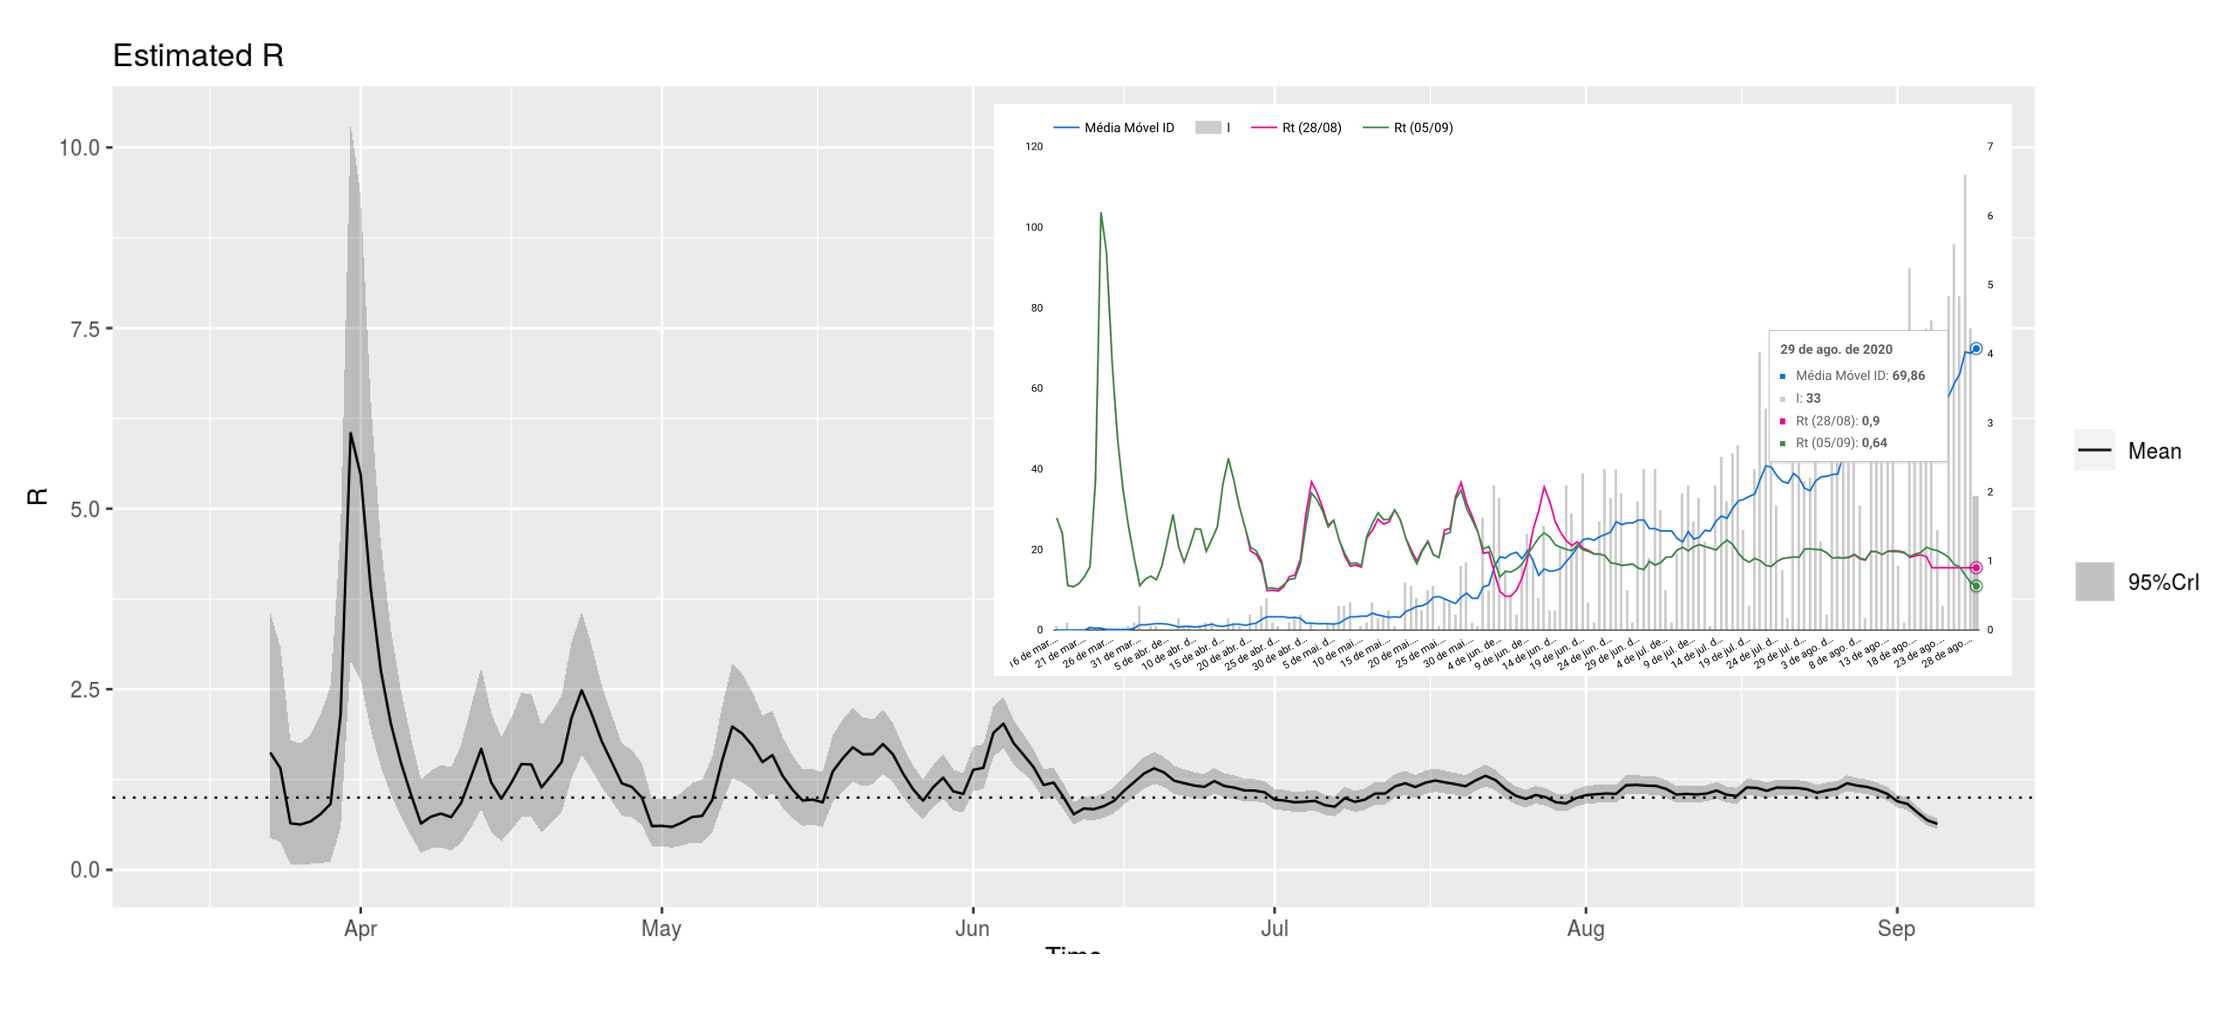
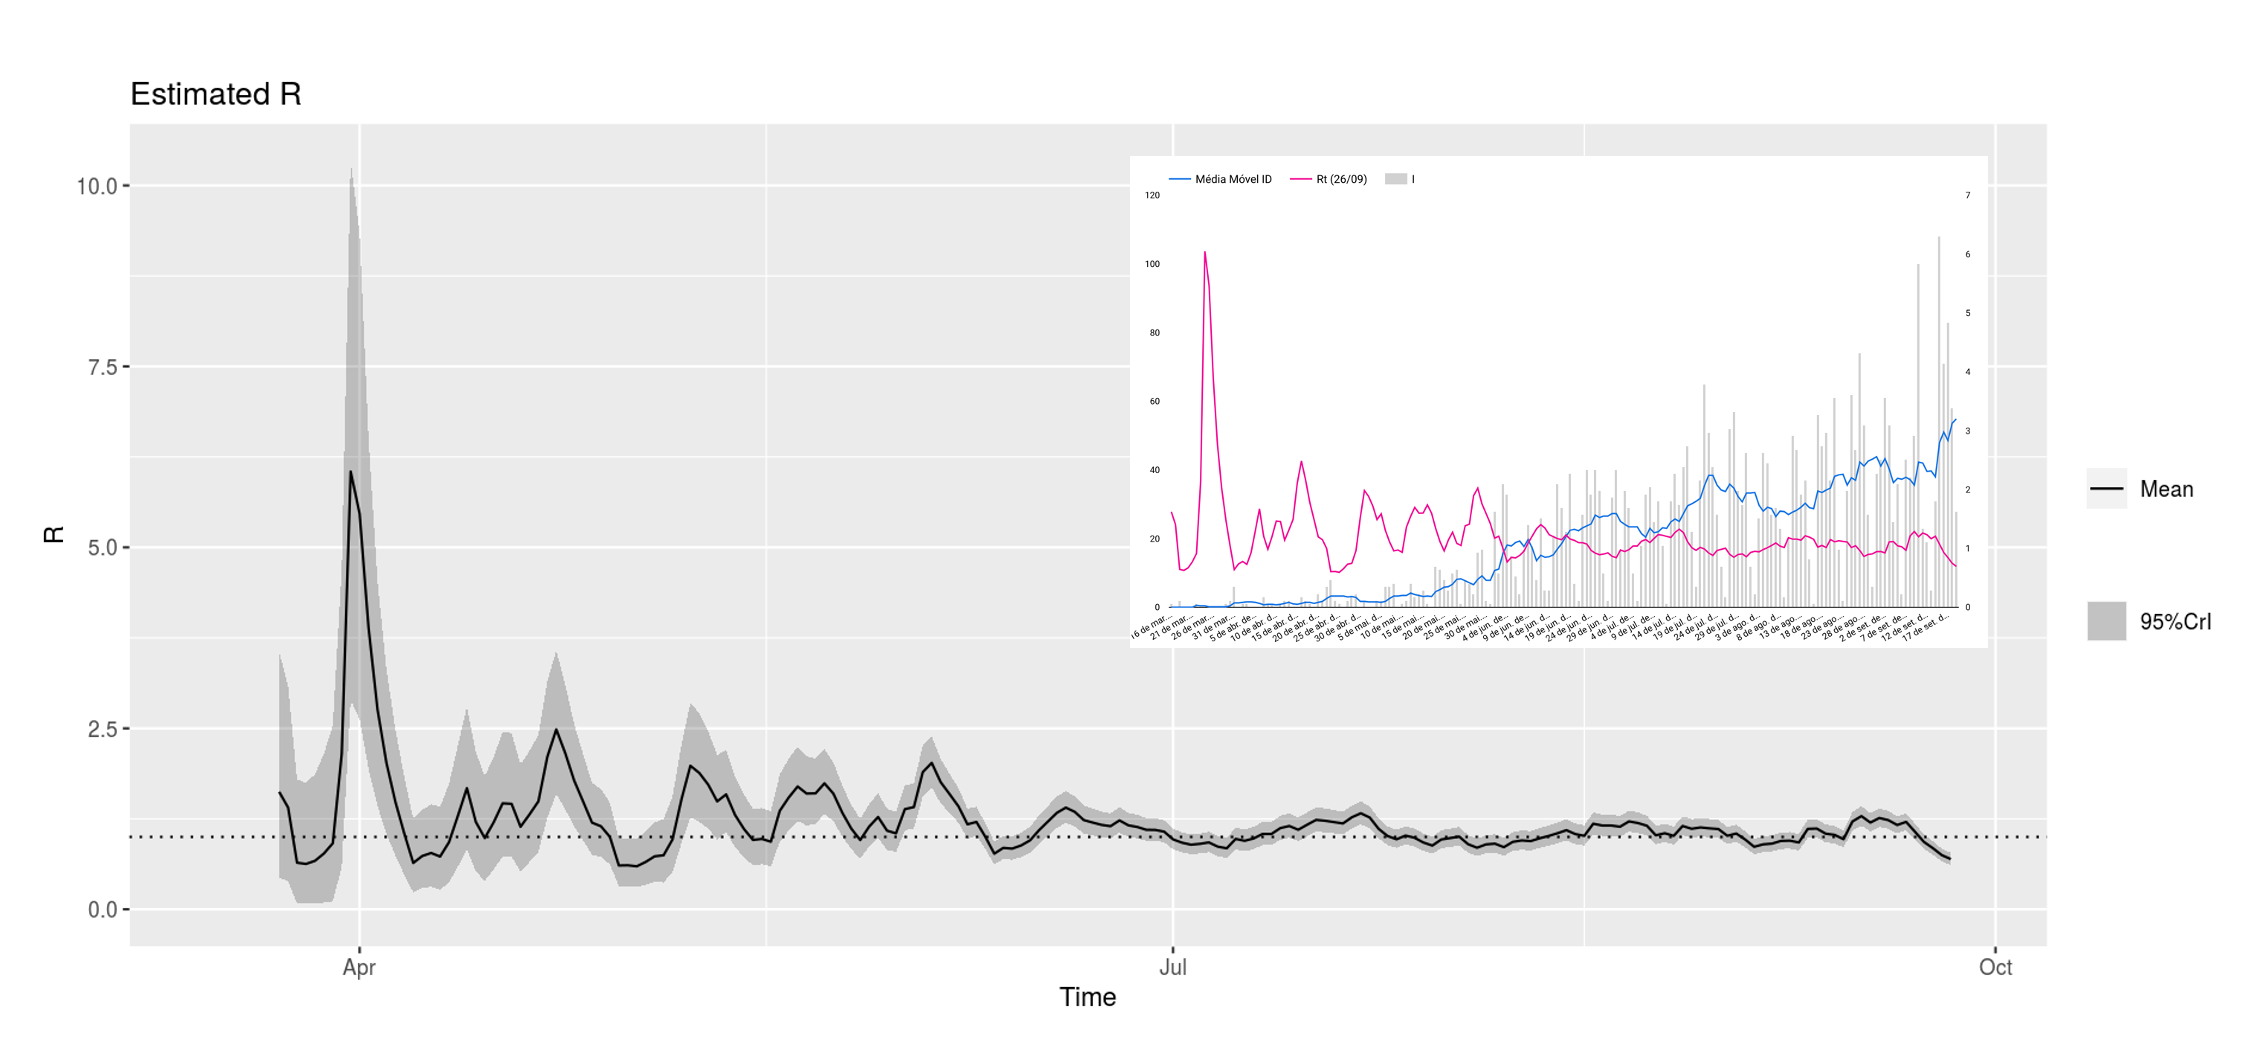
atualizacao

diff --git a/index.html b/index.html
@@ -135,7 +135,7 @@
               <!-- CARD.TITLE.TEXT -->
               <h2 class="display">Casos de Uberaba</h2>
             <!--/a-->
-            <p class="card-text">Dados e projeções para o município de Uberaba, informações até o dia 26 de setembro de 2020. Informações coletadas com a própria Secretaria Municipal de Saúde de Uberaba.</p>
+            <p class="card-text">Dados e projeções para o município de Uberaba, informações até o dia 10 de outubro de 2020. Informações coletadas com a própria Secretaria Municipal de Saúde de Uberaba.</p>
             <!-- CARD.TITLE.DESCRIPTION -->
           </div>
         </div>
@@ -147,8 +147,8 @@
 
         <p class="text-justify mt-3">
             <ul>
-            <li>No dia de hoje (26/09/2020), acumulamos 5429 casos notificados.</li>
-            <li>Projeção para dia 01 de setembro é de 5806 podendo chegar até 6176 casos notificados, como indicado pela faixa cinza.</li>
+            <li>No dia de hoje (10/10/2020), acumulamos 6716 casos notificados.</li>
+            <li>Projeção para dia 15 de outubro é de 7032 podendo chegar até 7433 casos notificados, como indicado pela faixa cinza.</li>
             <li>Pontos pretos: número de casos confirmados a cada dia.</li>
             <li>Pontos laranjas: a previsão para os próximos 5 dias.</li>
             </ul>
@@ -176,7 +176,7 @@
         </div>
 
         <p class="text-justify mt-3">
-        Todos os dados foram obtidos da própria Secretária Municipal de Saúde de Uberaba até o dia 26 de setembro de 2020.
+        Todos os dados foram obtidos da própria Secretária Municipal de Saúde de Uberaba até o dia 10 de outubro de 2020.
         </p>
 
 <!--        <a href="https://datastudio.google.com/reporting/1CX1pHjDrbb7X1gEIeVY1sxQp8PziWgpN/page/g6OUB?s=hWFHXQaeMZY" target="_blank">
@@ -193,7 +193,7 @@
         <p class="text-justify mt-3"> Figura 2: Indicadores dos casos de Covid-19 em Uberaba. Clique na imagem para ver o gráfico interativo </p>
 
         <p class="text-justify mt-3">
-        Os gráficos da Figura 2 apresentam um panorama geral da evolução da covid-19 na cidade de Uberaba. No dia 26/09/2020 a cidade apresenta 5429 casos notificados confirmados dos quais 90% são considerados recuperados.
+        Os gráficos da Figura 2 apresentam um panorama geral da evolução da covid-19 na cidade de Uberaba. No dia 10/10/2020 a cidade apresenta 6716 casos notificados confirmados dos quais 90% são considerados recuperados.
         </p>
 
         <div class="media-body">
@@ -208,7 +208,7 @@
         </p>
 
         <p class="text-justify mt-3">
-        A Figura 3, apresenta a média móvel dos casos confirmados considerando um intervalo de sete dias. A média móvel dos casos confirmados em Uberaba no dia 26/09 é de 5231.
+        A Figura 3, apresenta a média móvel dos casos confirmados considerando um intervalo de sete dias. A média móvel dos casos confirmados em Uberaba no dia 10/10 é de 6521.
         </p>
 
         <a href="https://datastudio.google.com/reporting/1eNQdQv-rpu3yne8bvqD71-j8gS44fYts/page/sLUUB?s=sfL5MYwUyi4" target="_blank">
@@ -222,7 +222,7 @@
         </p>
 
         <p class="text-justify mt-3">
-       A Figura 4 apresenta a curva de casos ativos ao longo do tempo junto com a média móvel considerando intervalos de sete dias. A média móvel de casos ativos da covid-19 no dia 26/09 é de 486.
+       A Figura 4 apresenta a curva de casos ativos ao longo do tempo junto com a média móvel considerando intervalos de sete dias. A média móvel de casos ativos da covid-19 no dia 10/10 é de 561.
         </p>
 
         <a href="https://datastudio.google.com/reporting/1eNQdQv-rpu3yne8bvqD71-j8gS44fYts/page/sLUUB?s=sfL5MYwUyi4" target="_blank">
@@ -272,7 +272,7 @@
         <p class="text-justify mt-3"> Figura 6: Novos casos diários confirmados e média móvel </p>
 
         <p class="text-justify mt-3">
-        A Figura 7  apresenta a evolução da variação da média móvel dos novos casos diários. No dia 26/09 a variação é de 13%, nesse momento, indica situação de subida, de acordo com os parâmetros usados pelos especialistas.
+        A Figura 7  apresenta a evolução da variação da média móvel dos novos casos diários. No dia 10/10 a variação é de -31%, nesse momento, indica situação de queda, de acordo com os parâmetros usados pelos especialistas.
         </p>
 
 
@@ -289,11 +289,11 @@
         Duas taxas dão importantes quando precisa entender o número de óbitos de uma doença,  a taxa de letalidade e a taxa de mortalidade. A letalidade é uma taxa que compara o número de óbitos com a quantidade de pessoas infectadas pela doença. A mortalidade é um índice obtido por uma relação dos óbitos por uma causa específica em um determinado período de tempo para cada 100.000 habitantes da área analisada.
 
         <p class="text-justify mt-3">
-        <li> A <b> taxa de letalidade </b> é calculada como o número total de óbitos dividido pelo número total de casos confirmados. Hoje, a taxa de letalidade de Uberaba é de 2,50%. Isso significa que a cada 100 pessoas que tem o dignóstico confirmado de covid-19, 2,50 dessas pessoas podem vir a óbito.</li>
+        <li> A <b> taxa de letalidade </b> é calculada como o número total de óbitos dividido pelo número total de casos confirmados. Hoje, a taxa de letalidade de Uberaba é de 2,59%. Isso significa que a cada 100 pessoas que tem o dignóstico confirmado de covid-19, 2,59 dessas pessoas podem vir a óbito.</li>
         </p>
 
         <p class="text-justify mt-3">
-        <li>A <b>taxa de mortalidade </b> é calculada considerando o número de óbitos pelo número total da população de Uberaba vezes 100 mil. No dia 26/09/2020 a taxa de mortalidade é de 40,75/100mil habitantes. Isso significa que a cada 100 mil pessoas de Uberaba, 40,75 delas podem vir a óbito por causa da covid-19.</li>
+        <li>A <b>taxa de mortalidade </b> é calculada considerando o número de óbitos pelo número total da população de Uberaba vezes 100 mil. No dia 10/10/2020 a taxa de mortalidade é de 50,75/100mil habitantes. Isso significa que a cada 100 mil pessoas de Uberaba, 50,75 delas podem vir a óbito por causa da covid-19.</li>
         </p>
 
         <p class="text-justify mt-3">
@@ -323,7 +323,7 @@
 
         <!--CARD.TEXT -->
         <p class="text-justify mt-3">
-          O número Reprodutivo efetivo (Rt) é a média de pessoas contaminadas por um infectado. Valores maiores que 1 indicam que o número de novos casos está aumentando. Valores próximos de um indicam um número constante de casos a cada dia. Apenas valores de Rt abaixo de um por muitos dias indicam tendência de redução no número de casos. A média do Rt dos últimos sete dias é de 0,95.
+          O número Reprodutivo efetivo (Rt) é a média de pessoas contaminadas por um infectado. Valores maiores que 1 indicam que o número de novos casos está aumentando. Valores próximos de um indicam um número constante de casos a cada dia. Apenas valores de Rt abaixo de um por muitos dias indicam tendência de redução no número de casos. A média do Rt dos últimos sete dias é de 0,80.
         </p>
         <img src="./web/municipios/MG/Uberaba/taxaRt1.png" class="img-fluid" style="max-height:600px;" alt="Gŕafico mostrando o número de casos acumulados na cidade de Uberaba.">
         <p class="text-center mt-3">
